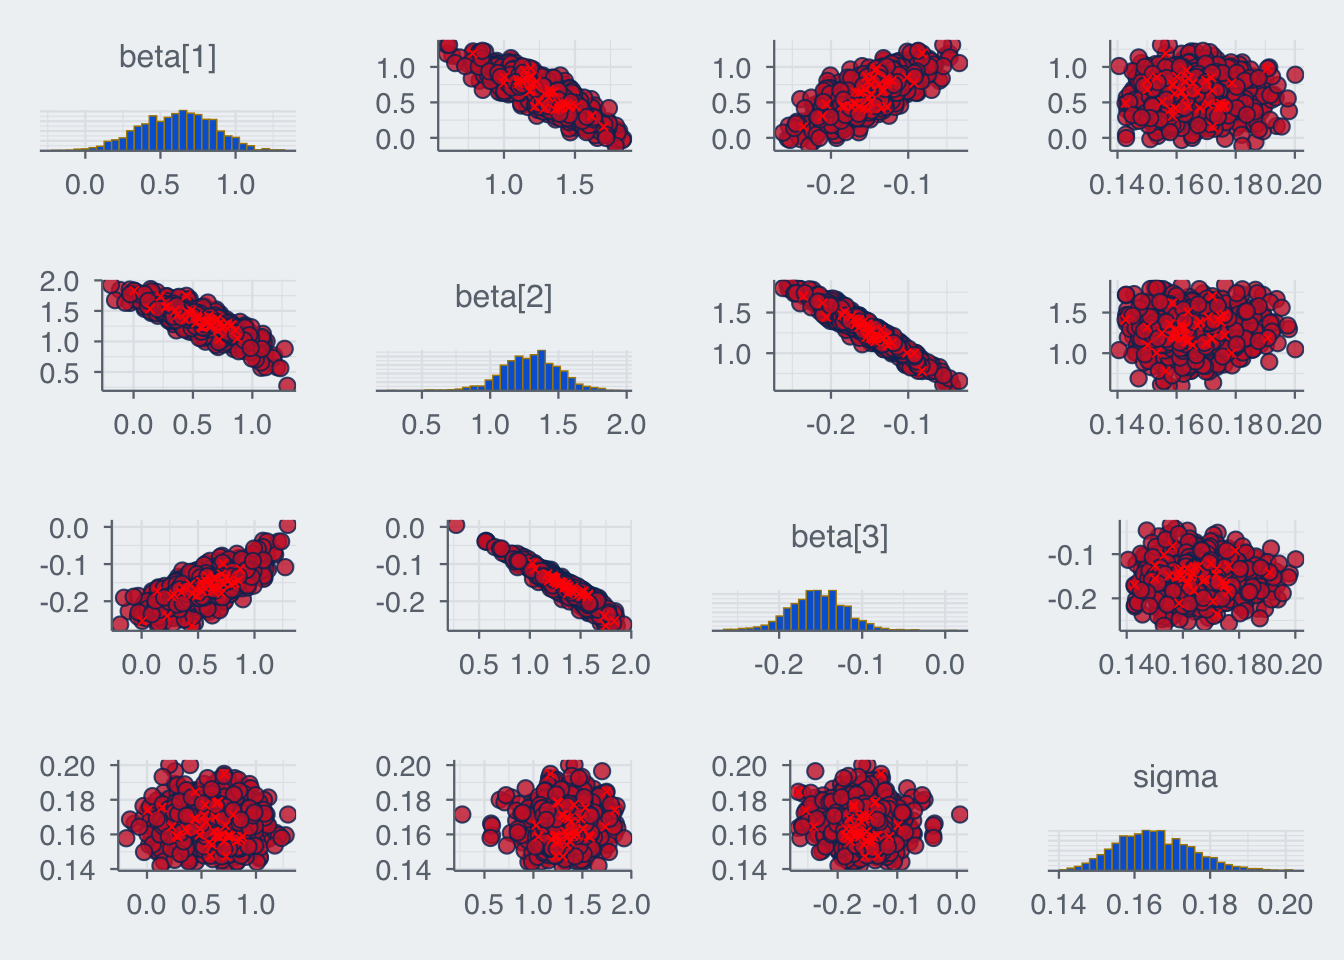
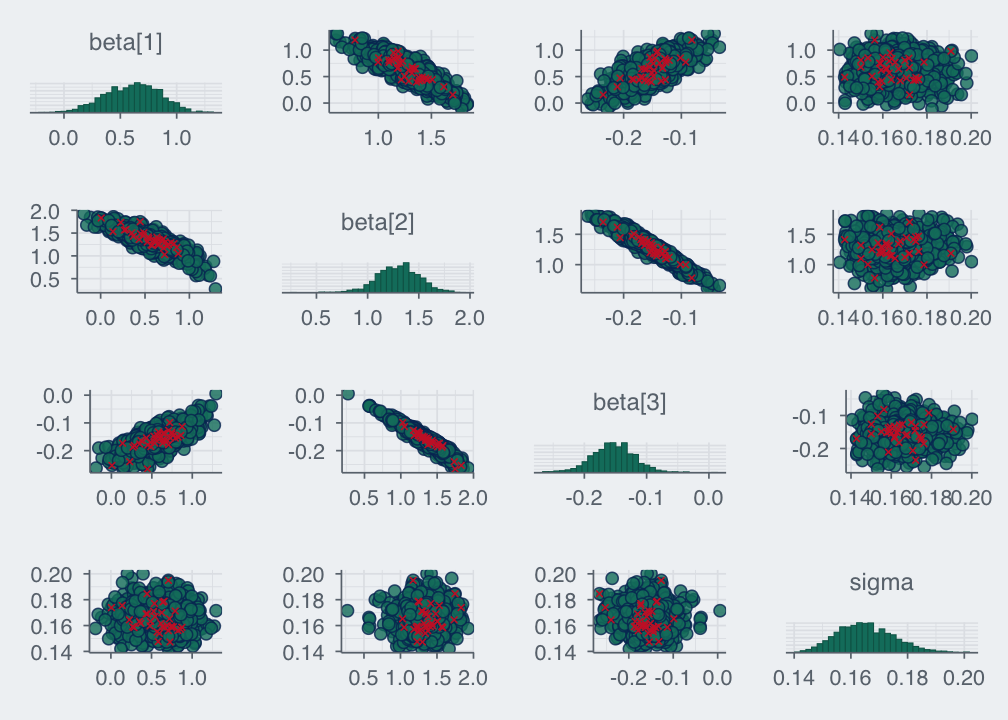
Built site for gh-pages

diff --git a/index.html b/index.html
@@ -2,7 +2,7 @@
 <html xmlns="http://www.w3.org/1999/xhtml" lang="en" xml:lang="en"><head>
 
 <meta charset="utf-8">
-<meta name="generator" content="quarto-1.8.26">
+<meta name="generator" content="quarto-1.8.27">
 
 <meta name="viewport" content="width=device-width, initial-scale=1.0, user-scalable=yes">
 
@@ -39,7 +39,7 @@ ul.task-list li input[type="checkbox"] {
 <script src="site_libs/quarto-html/tippy.umd.min.js"></script>
 <script src="site_libs/quarto-html/anchor.min.js"></script>
 <link href="site_libs/quarto-html/tippy.css" rel="stylesheet">
-<link href="site_libs/quarto-html/quarto-syntax-highlighting-c7795d48298f2061d7d4e2c1818cc14a.css" rel="stylesheet" id="quarto-text-highlighting-styles">
+<link href="site_libs/quarto-html/quarto-syntax-highlighting-ff530b39566f0853df07138be25885fc.css" rel="stylesheet" id="quarto-text-highlighting-styles">
 <script src="site_libs/bootstrap/bootstrap.min.js"></script>
 <link href="site_libs/bootstrap/bootstrap-icons.css" rel="stylesheet">
 <link href="site_libs/bootstrap/bootstrap-7525bedeac81e08aa05e6495b11143f3.min.css" rel="stylesheet" append-hash="true" id="quarto-bootstrap" data-mode="light">
@@ -240,7 +240,7 @@ window.Quarto = {
     </div>
 </div>
 <div class="list quarto-listing-default">
-<div class="quarto-post image-right" data-index="0" data-categories="c3RhbiUyQ3BhcmFtZXRlcml6YXRpb25z" data-listing-date-sort="1768435200000" data-listing-file-modified-sort="1768532491144" data-listing-date-modified-sort="NaN" data-listing-reading-time-sort="7" data-listing-word-count-sort="1228">
+<div class="quarto-post image-right" data-index="0" data-categories="c3RhbiUyQ3BhcmFtZXRlcml6YXRpb25z" data-listing-date-sort="1768435200000" data-listing-file-modified-sort="1768561653136" data-listing-date-modified-sort="NaN" data-listing-reading-time-sort="7" data-listing-word-count-sort="1228">
 <div class="thumbnail"><a href="./posts/post-3-better-unit-vector/a-better-unit-vector.html" class="no-external">
 
 <p class="card-img-top"><img src="posts/post-3-better-unit-vector/a-better-unit-vector_files/figure-html/uniformity-plot-1.png"  class="thumbnail-image card-img"/></p>
@@ -272,7 +272,7 @@ Sean Pinkney
 </a>
 </div>
 </div>
-<div class="quarto-post image-right" data-index="1" data-categories="c3RhbiUyQ3F1YW50aWxl" data-listing-date-sort="1666483200000" data-listing-file-modified-sort="1768532491144" data-listing-date-modified-sort="NaN" data-listing-reading-time-sort="7" data-listing-word-count-sort="1340">
+<div class="quarto-post image-right" data-index="1" data-categories="c3RhbiUyQ3F1YW50aWxl" data-listing-date-sort="1666483200000" data-listing-file-modified-sort="1768561653135" data-listing-date-modified-sort="NaN" data-listing-reading-time-sort="7" data-listing-word-count-sort="1340">
 <div class="thumbnail"><a href="./posts/post-2-quantile-reg-series/post-2-quantile-reg-part-III/quantile-reg-part-III.html" class="no-external">
 
 <div class="listing-item-img-placeholder card-img-top" >&nbsp;</div>
@@ -304,7 +304,7 @@ Sean Pinkney
 </a>
 </div>
 </div>
-<div class="quarto-post image-right" data-index="2" data-categories="c3RhbiUyQ3F1YW50aWxl" data-listing-date-sort="1666051200000" data-listing-file-modified-sort="1768532491143" data-listing-date-modified-sort="NaN" data-listing-reading-time-sort="13" data-listing-word-count-sort="2462">
+<div class="quarto-post image-right" data-index="2" data-categories="c3RhbiUyQ3F1YW50aWxl" data-listing-date-sort="1666051200000" data-listing-file-modified-sort="1768561653135" data-listing-date-modified-sort="NaN" data-listing-reading-time-sort="13" data-listing-word-count-sort="2462">
 <div class="thumbnail"><a href="./posts/post-2-quantile-reg-series/post-2-quantile-reg-part-II/quantile-reg-part-II.html" class="no-external">
 
 <div class="listing-item-img-placeholder card-img-top" >&nbsp;</div>
@@ -336,7 +336,7 @@ Sean Pinkney
 </a>
 </div>
 </div>
-<div class="quarto-post image-right" data-index="3" data-categories="c3RhbiUyQ3F1YW50aWxl" data-listing-date-sort="1665792000000" data-listing-file-modified-sort="1768532491129" data-listing-date-modified-sort="NaN" data-listing-reading-time-sort="8" data-listing-word-count-sort="1542">
+<div class="quarto-post image-right" data-index="3" data-categories="c3RhbiUyQ3F1YW50aWxl" data-listing-date-sort="1665792000000" data-listing-file-modified-sort="1768561653122" data-listing-date-modified-sort="NaN" data-listing-reading-time-sort="8" data-listing-word-count-sort="1558">
 <div class="thumbnail"><a href="./posts/post-2-quantile-reg-series/post-2-quantile-reg-part-I/quantile-reg.html" class="no-external">
 
 <p class="card-img-top"><img src="posts/post-2-quantile-reg-series/post-2-quantile-reg-part-I/quantile-reg_files/figure-html/unnamed-chunk-8-1.png"  class="thumbnail-image card-img"/></p>
@@ -368,7 +368,7 @@ Sean Pinkney
 </a>
 </div>
 </div>
-<div class="quarto-post image-right" data-index="4" data-categories="c3RhbiUyQ3F1YW50aWxl" data-listing-date-sort="1665705600000" data-listing-file-modified-sort="1768532490483" data-listing-date-modified-sort="NaN" data-listing-reading-time-sort="10" data-listing-word-count-sort="1883">
+<div class="quarto-post image-right" data-index="4" data-categories="c3RhbiUyQ3F1YW50aWxl" data-listing-date-sort="1665705600000" data-listing-file-modified-sort="1768561652477" data-listing-date-modified-sort="NaN" data-listing-reading-time-sort="10" data-listing-word-count-sort="1883">
 <div class="thumbnail"><a href="./posts/post-1-vasciek/vasciek_post.html" class="no-external">
 
 <p class="card-img-top"><img src="posts/post-1-vasciek/vasciek_post_files/figure-html/unnamed-chunk-6-1.png"  class="thumbnail-image card-img"/></p>

diff --git a/posts/post-2-quantile-reg-series/post-2-quantile-reg-part-I/quantile-reg.html b/posts/post-2-quantile-reg-series/post-2-quantile-reg-part-I/quantile-reg.html
@@ -2,7 +2,7 @@
 <html xmlns="http://www.w3.org/1999/xhtml" lang="en" xml:lang="en"><head>
 
 <meta charset="utf-8">
-<meta name="generator" content="quarto-1.8.26">
+<meta name="generator" content="quarto-1.8.27">
 
 <meta name="viewport" content="width=device-width, initial-scale=1.0, user-scalable=yes">
 
@@ -94,7 +94,7 @@ div.csl-indent {
 <script src="../../../site_libs/quarto-html/tippy.umd.min.js"></script>
 <script src="../../../site_libs/quarto-html/anchor.min.js"></script>
 <link href="../../../site_libs/quarto-html/tippy.css" rel="stylesheet">
-<link href="../../../site_libs/quarto-html/quarto-syntax-highlighting-c7795d48298f2061d7d4e2c1818cc14a.css" rel="stylesheet" id="quarto-text-highlighting-styles">
+<link href="../../../site_libs/quarto-html/quarto-syntax-highlighting-ff530b39566f0853df07138be25885fc.css" rel="stylesheet" id="quarto-text-highlighting-styles">
 <script src="../../../site_libs/bootstrap/bootstrap.min.js"></script>
 <link href="../../../site_libs/bootstrap/bootstrap-icons.css" rel="stylesheet">
 <link href="../../../site_libs/bootstrap/bootstrap-7525bedeac81e08aa05e6495b11143f3.min.css" rel="stylesheet" append-hash="true" id="quarto-bootstrap" data-mode="light">
@@ -537,10 +537,14 @@ See https://mc-stan.org/misc/warnings for details.</code></pre>
 <summary>Show the code</summary>
 <div class="code-copy-outer-scaffold"><div class="sourceCode cell-code" id="cb20"><pre class="sourceCode r code-with-copy"><code class="sourceCode r"><span id="cb20-1"><a href="#cb20-1" aria-hidden="true" tabindex="-1"></a><span class="fu">source</span>(<span class="st">"../../../R/theme_blog.R"</span>)</span>
 <span id="cb20-2"><a href="#cb20-2" aria-hidden="true" tabindex="-1"></a><span class="fu">use_blog_bayesplot</span>()</span>
-<span id="cb20-3"><a href="#cb20-3" aria-hidden="true" tabindex="-1"></a></span>
-<span id="cb20-4"><a href="#cb20-4" aria-hidden="true" tabindex="-1"></a>np_aug_laplace <span class="ot">&lt;-</span> <span class="fu">nuts_params</span>(out_aug_laplace)</span>
-<span id="cb20-5"><a href="#cb20-5" aria-hidden="true" tabindex="-1"></a>np_asym_laplace <span class="ot">&lt;-</span> <span class="fu">nuts_params</span>(out_asym_laplace)</span>
-<span id="cb20-6"><a href="#cb20-6" aria-hidden="true" tabindex="-1"></a><span class="fu">mcmc_pairs</span>(out_aug_laplace<span class="sc">$</span><span class="fu">draws</span>(<span class="fu">c</span>(<span class="st">"beta"</span>, <span class="st">"sigma"</span>)), <span class="at">np =</span> np_aug_laplace)</span></code></pre></div><button title="Copy to Clipboard" class="code-copy-button"><i class="bi"></i></button></div>
+<span id="cb20-3"><a href="#cb20-3" aria-hidden="true" tabindex="-1"></a>pairs_np_style <span class="ot">&lt;-</span> bayesplot<span class="sc">::</span><span class="fu">pairs_style_np</span>(</span>
+<span id="cb20-4"><a href="#cb20-4" aria-hidden="true" tabindex="-1"></a>  <span class="at">div_color =</span> blog_colors<span class="sc">$</span>red,</span>
+<span id="cb20-5"><a href="#cb20-5" aria-hidden="true" tabindex="-1"></a>  <span class="at">td_color =</span> blog_colors<span class="sc">$</span>gold</span>
+<span id="cb20-6"><a href="#cb20-6" aria-hidden="true" tabindex="-1"></a>)</span>
+<span id="cb20-7"><a href="#cb20-7" aria-hidden="true" tabindex="-1"></a></span>
+<span id="cb20-8"><a href="#cb20-8" aria-hidden="true" tabindex="-1"></a>np_aug_laplace <span class="ot">&lt;-</span> <span class="fu">nuts_params</span>(out_aug_laplace)</span>
+<span id="cb20-9"><a href="#cb20-9" aria-hidden="true" tabindex="-1"></a>np_asym_laplace <span class="ot">&lt;-</span> <span class="fu">nuts_params</span>(out_asym_laplace)</span>
+<span id="cb20-10"><a href="#cb20-10" aria-hidden="true" tabindex="-1"></a><span class="fu">mcmc_pairs</span>(out_aug_laplace<span class="sc">$</span><span class="fu">draws</span>(<span class="fu">c</span>(<span class="st">"beta"</span>, <span class="st">"sigma"</span>)), <span class="at">np =</span> np_aug_laplace, <span class="at">np_style =</span> pairs_np_style)</span></code></pre></div><button title="Copy to Clipboard" class="code-copy-button"><i class="bi"></i></button></div>
 </details>
 <div class="cell-output-display">
 <div>
@@ -551,7 +555,7 @@ See https://mc-stan.org/misc/warnings for details.</code></pre>
 </div>
 <details class="code-fold">
 <summary>Show the code</summary>
-<div class="code-copy-outer-scaffold"><div class="sourceCode cell-code" id="cb21"><pre class="sourceCode r code-with-copy"><code class="sourceCode r"><span id="cb21-1"><a href="#cb21-1" aria-hidden="true" tabindex="-1"></a><span class="fu">mcmc_pairs</span>(out_asym_laplace<span class="sc">$</span><span class="fu">draws</span>(<span class="fu">c</span>(<span class="st">"beta"</span>, <span class="st">"sigma"</span>)), <span class="at">np =</span> np_asym_laplace)</span></code></pre></div><button title="Copy to Clipboard" class="code-copy-button"><i class="bi"></i></button></div>
+<div class="code-copy-outer-scaffold"><div class="sourceCode cell-code" id="cb21"><pre class="sourceCode r code-with-copy"><code class="sourceCode r"><span id="cb21-1"><a href="#cb21-1" aria-hidden="true" tabindex="-1"></a><span class="fu">mcmc_pairs</span>(out_asym_laplace<span class="sc">$</span><span class="fu">draws</span>(<span class="fu">c</span>(<span class="st">"beta"</span>, <span class="st">"sigma"</span>)), <span class="at">np =</span> np_asym_laplace, <span class="at">np_style =</span> pairs_np_style)</span></code></pre></div><button title="Copy to Clipboard" class="code-copy-button"><i class="bi"></i></button></div>
 </details>
 <div class="cell-output-display">
 <div>

diff --git a/quantile-reg-series.html b/quantile-reg-series.html
@@ -2,7 +2,7 @@
 <html xmlns="http://www.w3.org/1999/xhtml" lang="en" xml:lang="en"><head>
 
 <meta charset="utf-8">
-<meta name="generator" content="quarto-1.8.26">
+<meta name="generator" content="quarto-1.8.27">
 
 <meta name="viewport" content="width=device-width, initial-scale=1.0, user-scalable=yes">
 
@@ -39,7 +39,7 @@ ul.task-list li input[type="checkbox"] {
 <script src="site_libs/quarto-html/tippy.umd.min.js"></script>
 <script src="site_libs/quarto-html/anchor.min.js"></script>
 <link href="site_libs/quarto-html/tippy.css" rel="stylesheet">
-<link href="site_libs/quarto-html/quarto-syntax-highlighting-c7795d48298f2061d7d4e2c1818cc14a.css" rel="stylesheet" id="quarto-text-highlighting-styles">
+<link href="site_libs/quarto-html/quarto-syntax-highlighting-ff530b39566f0853df07138be25885fc.css" rel="stylesheet" id="quarto-text-highlighting-styles">
 <script src="site_libs/bootstrap/bootstrap.min.js"></script>
 <link href="site_libs/bootstrap/bootstrap-icons.css" rel="stylesheet">
 <link href="site_libs/bootstrap/bootstrap-7525bedeac81e08aa05e6495b11143f3.min.css" rel="stylesheet" append-hash="true" id="quarto-bootstrap" data-mode="light">
@@ -210,7 +210,7 @@ window.Quarto = {
 
 <div class="quarto-listing quarto-listing-container-default" id="listing-listing">
 <div class="list quarto-listing-default">
-<div class="quarto-post image-right" data-index="0" data-categories="c3RhbiUyQ3F1YW50aWxl" data-listing-date-sort="1666483200000" data-listing-file-modified-sort="1768532491144" data-listing-date-modified-sort="NaN" data-listing-reading-time-sort="7" data-listing-word-count-sort="1340">
+<div class="quarto-post image-right" data-index="0" data-categories="c3RhbiUyQ3F1YW50aWxl" data-listing-date-sort="1666483200000" data-listing-file-modified-sort="1768561653135" data-listing-date-modified-sort="NaN" data-listing-reading-time-sort="7" data-listing-word-count-sort="1340">
 <div class="body">
 <h3 class="no-anchor listing-title">
 <a href="./posts/post-2-quantile-reg-series/post-2-quantile-reg-part-III/quantile-reg-part-III.html" class="no-external">Quantile Regressions in Stan: Part III</a>
@@ -228,7 +228,7 @@ Oct 23, 2022
 </a>
 </div>
 </div>
-<div class="quarto-post image-right" data-index="1" data-categories="c3RhbiUyQ3F1YW50aWxl" data-listing-date-sort="1666051200000" data-listing-file-modified-sort="1768532491143" data-listing-date-modified-sort="NaN" data-listing-reading-time-sort="13" data-listing-word-count-sort="2462">
+<div class="quarto-post image-right" data-index="1" data-categories="c3RhbiUyQ3F1YW50aWxl" data-listing-date-sort="1666051200000" data-listing-file-modified-sort="1768561653135" data-listing-date-modified-sort="NaN" data-listing-reading-time-sort="13" data-listing-word-count-sort="2462">
 <div class="body">
 <h3 class="no-anchor listing-title">
 <a href="./posts/post-2-quantile-reg-series/post-2-quantile-reg-part-II/quantile-reg-part-II.html" class="no-external">Quantile Regressions in Stan: Part II</a>
@@ -246,7 +246,7 @@ Oct 18, 2022
 </a>
 </div>
 </div>
-<div class="quarto-post image-right" data-index="2" data-categories="c3RhbiUyQ3F1YW50aWxl" data-listing-date-sort="1665792000000" data-listing-file-modified-sort="1768532491129" data-listing-date-modified-sort="NaN" data-listing-reading-time-sort="8" data-listing-word-count-sort="1542">
+<div class="quarto-post image-right" data-index="2" data-categories="c3RhbiUyQ3F1YW50aWxl" data-listing-date-sort="1665792000000" data-listing-file-modified-sort="1768561653122" data-listing-date-modified-sort="NaN" data-listing-reading-time-sort="8" data-listing-word-count-sort="1558">
 <div class="body">
 <h3 class="no-anchor listing-title">
 <a href="./posts/post-2-quantile-reg-series/post-2-quantile-reg-part-I/quantile-reg.html" class="no-external">Quantile Regressions in Stan: Part I</a>

diff --git a/css/highlight/DIGESTS.html b/css/highlight/DIGESTS.html
@@ -2,7 +2,7 @@
 <html xmlns="http://www.w3.org/1999/xhtml" lang="en" xml:lang="en"><head>
 
 <meta charset="utf-8">
-<meta name="generator" content="quarto-1.8.26">
+<meta name="generator" content="quarto-1.8.27">
 
 <meta name="viewport" content="width=device-width, initial-scale=1.0, user-scalable=yes">
 
@@ -72,7 +72,7 @@ pre > code.sourceCode > span > a:first-child::before { text-decoration: underlin
 <script src="../../site_libs/quarto-html/tippy.umd.min.js"></script>
 <script src="../../site_libs/quarto-html/anchor.min.js"></script>
 <link href="../../site_libs/quarto-html/tippy.css" rel="stylesheet">
-<link href="../../site_libs/quarto-html/quarto-syntax-highlighting-c7795d48298f2061d7d4e2c1818cc14a.css" rel="stylesheet" id="quarto-text-highlighting-styles">
+<link href="../../site_libs/quarto-html/quarto-syntax-highlighting-ff530b39566f0853df07138be25885fc.css" rel="stylesheet" id="quarto-text-highlighting-styles">
 <script src="../../site_libs/bootstrap/bootstrap.min.js"></script>
 <link href="../../site_libs/bootstrap/bootstrap-icons.css" rel="stylesheet">
 <link href="../../site_libs/bootstrap/bootstrap-7525bedeac81e08aa05e6495b11143f3.min.css" rel="stylesheet" append-hash="true" id="quarto-bootstrap" data-mode="light">

diff --git a/posts/post-3-better-unit-vector/a-better-unit-vector.html b/posts/post-3-better-unit-vector/a-better-unit-vector.html
@@ -2,7 +2,7 @@
 <html xmlns="http://www.w3.org/1999/xhtml" lang="en" xml:lang="en"><head>
 
 <meta charset="utf-8">
-<meta name="generator" content="quarto-1.8.26">
+<meta name="generator" content="quarto-1.8.27">
 
 <meta name="viewport" content="width=device-width, initial-scale=1.0, user-scalable=yes">
 
@@ -74,7 +74,7 @@ pre > code.sourceCode > span > a:first-child::before { text-decoration: underlin
 <script src="../../site_libs/quarto-html/tippy.umd.min.js"></script>
 <script src="../../site_libs/quarto-html/anchor.min.js"></script>
 <link href="../../site_libs/quarto-html/tippy.css" rel="stylesheet">
-<link href="../../site_libs/quarto-html/quarto-syntax-highlighting-c7795d48298f2061d7d4e2c1818cc14a.css" rel="stylesheet" id="quarto-text-highlighting-styles">
+<link href="../../site_libs/quarto-html/quarto-syntax-highlighting-ff530b39566f0853df07138be25885fc.css" rel="stylesheet" id="quarto-text-highlighting-styles">
 <script src="../../site_libs/bootstrap/bootstrap.min.js"></script>
 <link href="../../site_libs/bootstrap/bootstrap-icons.css" rel="stylesheet">
 <link href="../../site_libs/bootstrap/bootstrap-7525bedeac81e08aa05e6495b11143f3.min.css" rel="stylesheet" append-hash="true" id="quarto-bootstrap" data-mode="light">

diff --git a/posts/post-2-quantile-reg-series/post-2-quantile-reg-part-II/quantile-reg-part-II.html b/posts/post-2-quantile-reg-series/post-2-quantile-reg-part-II/quantile-reg-part-II.html
@@ -2,7 +2,7 @@
 <html xmlns="http://www.w3.org/1999/xhtml" lang="en" xml:lang="en"><head>
 
 <meta charset="utf-8">
-<meta name="generator" content="quarto-1.8.26">
+<meta name="generator" content="quarto-1.8.27">
 
 <meta name="viewport" content="width=device-width, initial-scale=1.0, user-scalable=yes">
 
@@ -94,7 +94,7 @@ div.csl-indent {
 <script src="../../../site_libs/quarto-html/tippy.umd.min.js"></script>
 <script src="../../../site_libs/quarto-html/anchor.min.js"></script>
 <link href="../../../site_libs/quarto-html/tippy.css" rel="stylesheet">
-<link href="../../../site_libs/quarto-html/quarto-syntax-highlighting-c7795d48298f2061d7d4e2c1818cc14a.css" rel="stylesheet" id="quarto-text-highlighting-styles">
+<link href="../../../site_libs/quarto-html/quarto-syntax-highlighting-ff530b39566f0853df07138be25885fc.css" rel="stylesheet" id="quarto-text-highlighting-styles">
 <script src="../../../site_libs/bootstrap/bootstrap.min.js"></script>
 <link href="../../../site_libs/bootstrap/bootstrap-icons.css" rel="stylesheet">
 <link href="../../../site_libs/bootstrap/bootstrap-7525bedeac81e08aa05e6495b11143f3.min.css" rel="stylesheet" append-hash="true" id="quarto-bootstrap" data-mode="light">

diff --git a/posts/post-2-quantile-reg-series/post-2-quantile-reg-part-III/quantile-reg-part-III.html b/posts/post-2-quantile-reg-series/post-2-quantile-reg-part-III/quantile-reg-part-III.html
@@ -2,7 +2,7 @@
 <html xmlns="http://www.w3.org/1999/xhtml" lang="en" xml:lang="en"><head>
 
 <meta charset="utf-8">
-<meta name="generator" content="quarto-1.8.26">
+<meta name="generator" content="quarto-1.8.27">
 
 <meta name="viewport" content="width=device-width, initial-scale=1.0, user-scalable=yes">
 
@@ -94,7 +94,7 @@ div.csl-indent {
 <script src="../../../site_libs/quarto-html/tippy.umd.min.js"></script>
 <script src="../../../site_libs/quarto-html/anchor.min.js"></script>
 <link href="../../../site_libs/quarto-html/tippy.css" rel="stylesheet">
-<link href="../../../site_libs/quarto-html/quarto-syntax-highlighting-c7795d48298f2061d7d4e2c1818cc14a.css" rel="stylesheet" id="quarto-text-highlighting-styles">
+<link href="../../../site_libs/quarto-html/quarto-syntax-highlighting-ff530b39566f0853df07138be25885fc.css" rel="stylesheet" id="quarto-text-highlighting-styles">
 <script src="../../../site_libs/bootstrap/bootstrap.min.js"></script>
 <link href="../../../site_libs/bootstrap/bootstrap-icons.css" rel="stylesheet">
 <link href="../../../site_libs/bootstrap/bootstrap-7525bedeac81e08aa05e6495b11143f3.min.css" rel="stylesheet" append-hash="true" id="quarto-bootstrap" data-mode="light">

diff --git a/posts/post-1-vasciek/vasciek_post.html b/posts/post-1-vasciek/vasciek_post.html
@@ -2,7 +2,7 @@
 <html xmlns="http://www.w3.org/1999/xhtml" lang="en" xml:lang="en"><head>
 
 <meta charset="utf-8">
-<meta name="generator" content="quarto-1.8.26">
+<meta name="generator" content="quarto-1.8.27">
 
 <meta name="viewport" content="width=device-width, initial-scale=1.0, user-scalable=yes">
 
@@ -94,7 +94,7 @@ div.csl-indent {
 <script src="../../site_libs/quarto-html/tippy.umd.min.js"></script>
 <script src="../../site_libs/quarto-html/anchor.min.js"></script>
 <link href="../../site_libs/quarto-html/tippy.css" rel="stylesheet">
-<link href="../../site_libs/quarto-html/quarto-syntax-highlighting-c7795d48298f2061d7d4e2c1818cc14a.css" rel="stylesheet" id="quarto-text-highlighting-styles">
+<link href="../../site_libs/quarto-html/quarto-syntax-highlighting-ff530b39566f0853df07138be25885fc.css" rel="stylesheet" id="quarto-text-highlighting-styles">
 <script src="../../site_libs/bootstrap/bootstrap.min.js"></script>
 <link href="../../site_libs/bootstrap/bootstrap-icons.css" rel="stylesheet">
 <link href="../../site_libs/bootstrap/bootstrap-7525bedeac81e08aa05e6495b11143f3.min.css" rel="stylesheet" append-hash="true" id="quarto-bootstrap" data-mode="light">

diff --git a/COMMENTING.html b/COMMENTING.html
@@ -2,7 +2,7 @@
 <html xmlns="http://www.w3.org/1999/xhtml" lang="en" xml:lang="en"><head>
 
 <meta charset="utf-8">
-<meta name="generator" content="quarto-1.8.26">
+<meta name="generator" content="quarto-1.8.27">
 
 <meta name="viewport" content="width=device-width, initial-scale=1.0, user-scalable=yes">
 
@@ -37,7 +37,7 @@ ul.task-list li input[type="checkbox"] {
 <script src="site_libs/quarto-html/tippy.umd.min.js"></script>
 <script src="site_libs/quarto-html/anchor.min.js"></script>
 <link href="site_libs/quarto-html/tippy.css" rel="stylesheet">
-<link href="site_libs/quarto-html/quarto-syntax-highlighting-c7795d48298f2061d7d4e2c1818cc14a.css" rel="stylesheet" id="quarto-text-highlighting-styles">
+<link href="site_libs/quarto-html/quarto-syntax-highlighting-ff530b39566f0853df07138be25885fc.css" rel="stylesheet" id="quarto-text-highlighting-styles">
 <script src="site_libs/bootstrap/bootstrap.min.js"></script>
 <link href="site_libs/bootstrap/bootstrap-icons.css" rel="stylesheet">
 <link href="site_libs/bootstrap/bootstrap-7525bedeac81e08aa05e6495b11143f3.min.css" rel="stylesheet" append-hash="true" id="quarto-bootstrap" data-mode="light">

diff --git a/about.html b/about.html
@@ -2,7 +2,7 @@
 <html xmlns="http://www.w3.org/1999/xhtml" lang="en" xml:lang="en"><head>
 
 <meta charset="utf-8">
-<meta name="generator" content="quarto-1.8.26">
+<meta name="generator" content="quarto-1.8.27">
 
 <meta name="viewport" content="width=device-width, initial-scale=1.0, user-scalable=yes">
 
@@ -36,7 +36,7 @@ ul.task-list li input[type="checkbox"] {
 <script src="site_libs/quarto-html/popper.min.js"></script>
 <script src="site_libs/quarto-html/tippy.umd.min.js"></script>
 <link href="site_libs/quarto-html/tippy.css" rel="stylesheet">
-<link href="site_libs/quarto-html/quarto-syntax-highlighting-c7795d48298f2061d7d4e2c1818cc14a.css" rel="stylesheet" id="quarto-text-highlighting-styles">
+<link href="site_libs/quarto-html/quarto-syntax-highlighting-ff530b39566f0853df07138be25885fc.css" rel="stylesheet" id="quarto-text-highlighting-styles">
 <script src="site_libs/bootstrap/bootstrap.min.js"></script>
 <link href="site_libs/bootstrap/bootstrap-icons.css" rel="stylesheet">
 <link href="site_libs/bootstrap/bootstrap-7525bedeac81e08aa05e6495b11143f3.min.css" rel="stylesheet" append-hash="true" id="quarto-bootstrap" data-mode="light">

diff --git a/site_libs/quarto-html/quarto-syntax-highlighting-ff530b39566f0853df07138be25885fc.css b/site_libs/quarto-html/quarto-syntax-highlighting-ff530b39566f0853df07138be25885fc.css
@@ -223,4 +223,4 @@ code span.wa {
   content: "</";
 }
 
-/*# sourceMappingURL=4ba7703d9245c26191eed07d01cec7f5.css.map */
+/*# sourceMappingURL=0c45658343e6c4f3283175ac84eed472.css.map */
